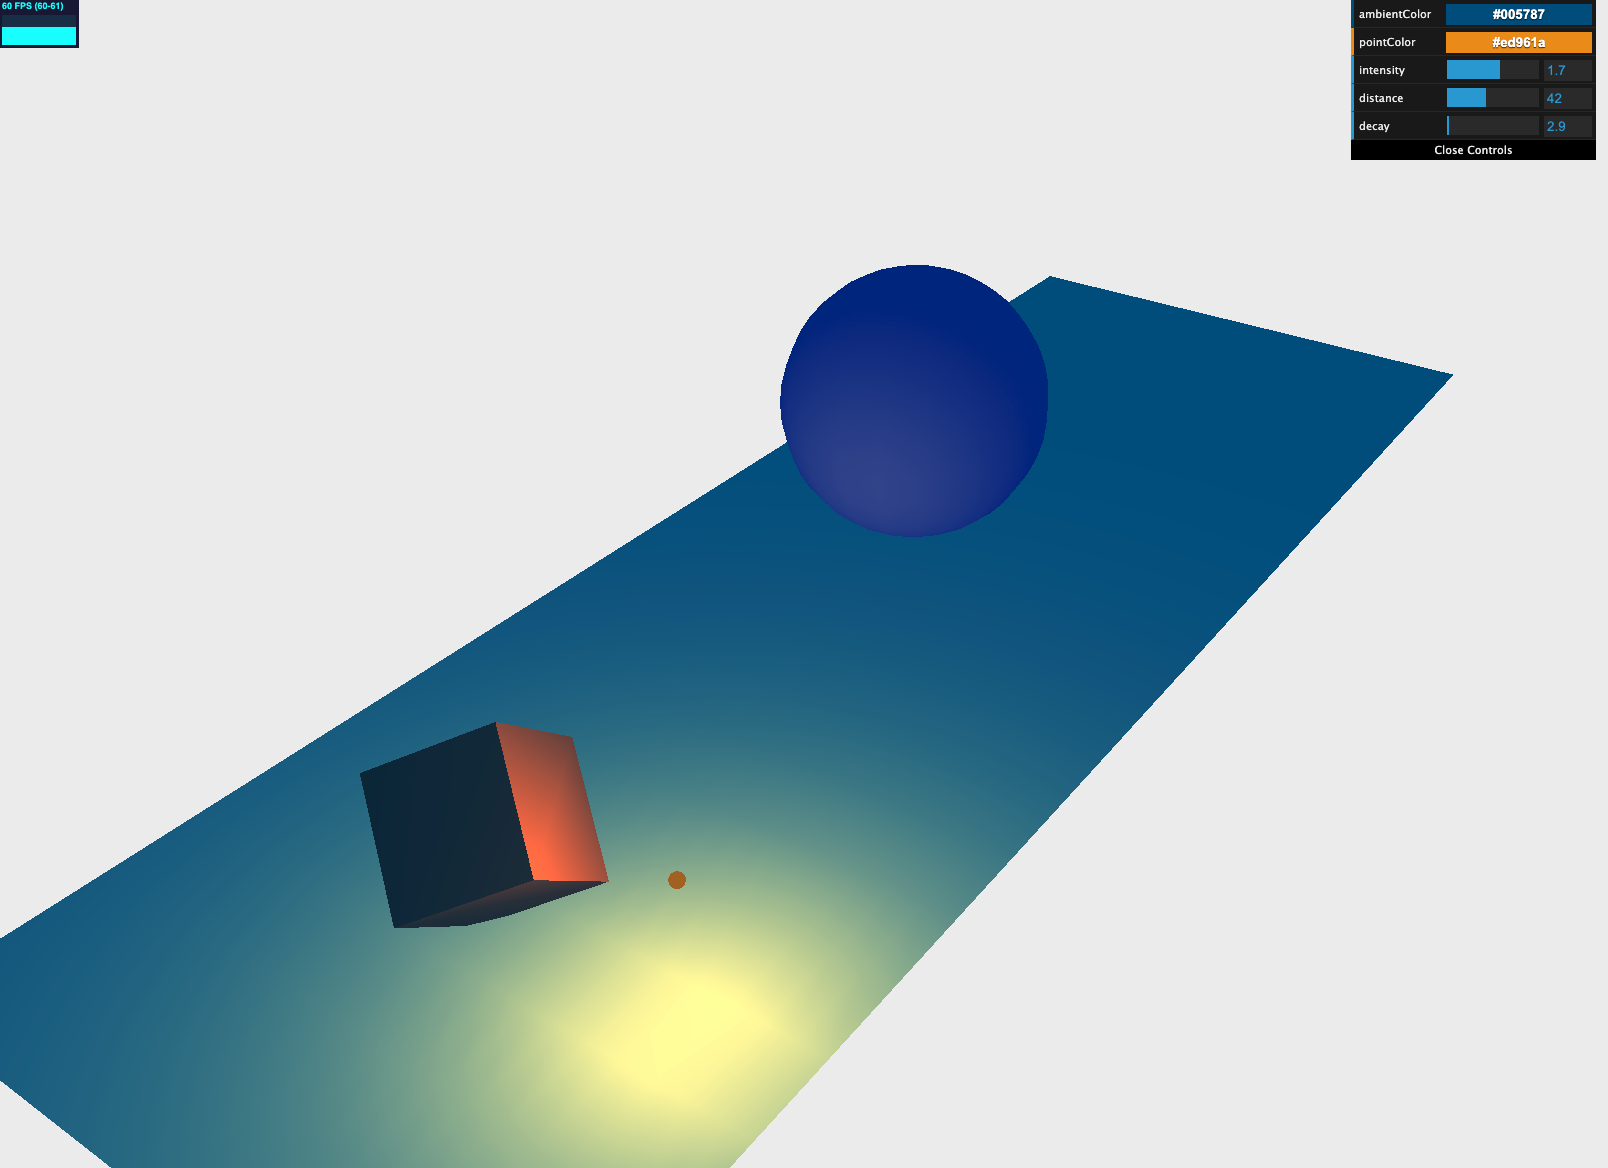
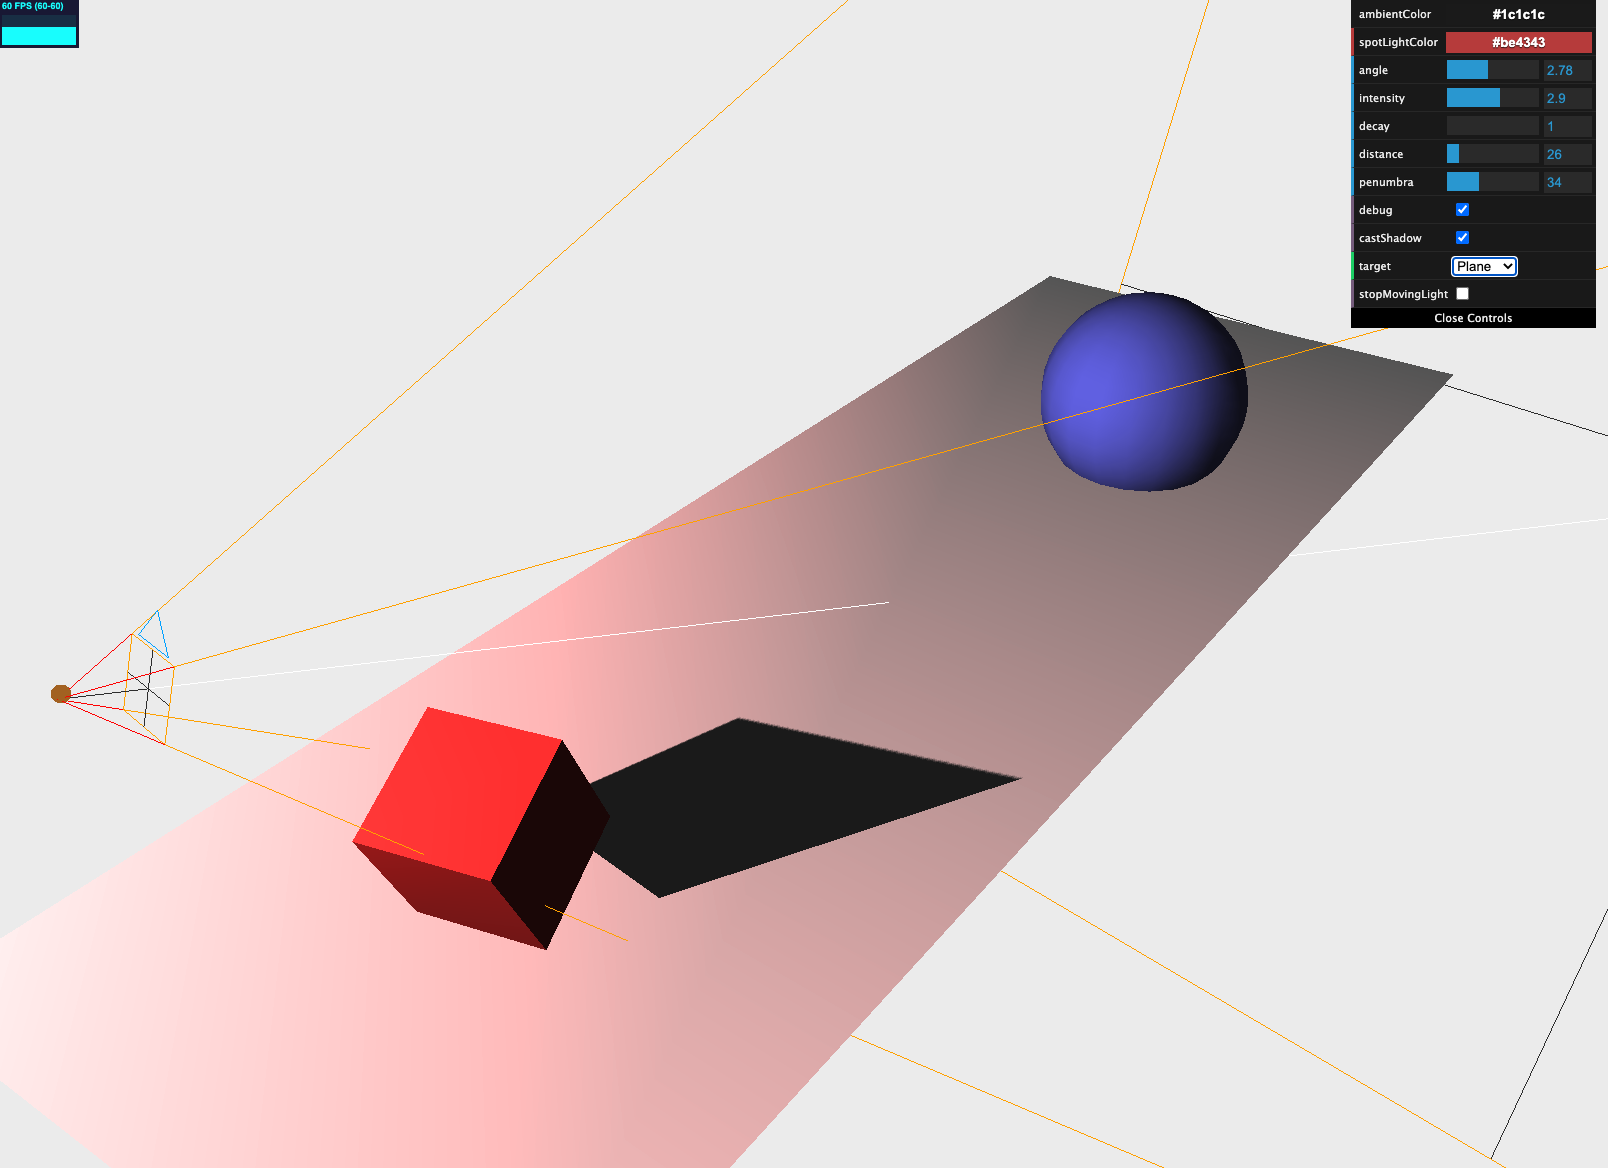
3-2-3 complete

diff --git a/Learning Three.js, 2nd Edition/chapter-03/3-2-3.spot-light/src/index.js b/Learning Three.js, 2nd Edition/chapter-03/3-2-3.spot-light/src/index.js
@@ -22,27 +22,11 @@ const renderer = new THREE.WebGLRenderer();
 renderer.setClearColor(new THREE.Color(0xeeeeee));
 renderer.setSize(window.innerWidth, window.innerHeight);
 renderer.shadowMap.enabled = true;
+renderer.shadowMap.type = THREE.PCFShadowMap;
 document.getElementById("WebGL-output").appendChild(renderer.domElement);
 
-// ambient light
-let ambiColor = "#0c0c0c";
-const ambientLight = new THREE.AmbientLight(ambiColor);
-scene.add(ambientLight);
-
-// spot light
-// const spotLight = new THREE.SpotLight(0xffffff);
-// spotLight.position.set(-40, 60, -10);
-// spotLight.castShadow = true;
-// scene.add(spotLight);
-
-// point light
-let pointColor = "#ccffcc";
-const pointLight = new THREE.PointLight(pointColor);
-pointLight.distance = 100;
-scene.add(pointLight);
-
 // 床面
-const planeGeometry = new THREE.PlaneGeometry(60, 20, 20, 20);
+const planeGeometry = new THREE.PlaneGeometry(60, 20, 1, 1);
 const planeMaterial = new THREE.MeshLambertMaterial({ color: 0xffffff });
 const plane = new THREE.Mesh(planeGeometry, planeMaterial);
 plane.receiveShadow = true;
@@ -54,7 +38,7 @@ scene.add(plane);
 
 // Cube
 const cubeGeometry = new THREE.BoxGeometry(4, 4, 4);
-const cubeMatelial = new THREE.MeshLambertMaterial({ color: 0xff7777 });
+const cubeMatelial = new THREE.MeshLambertMaterial({ color: 0xff3333 });
 const cube = new THREE.Mesh(cubeGeometry, cubeMatelial);
 cube.castShadow = true;
 cube.position.x = -4;
@@ -72,45 +56,111 @@ sphere.position.y = 0;
 sphere.position.z = 2;
 scene.add(sphere);
 
+// ambient light
+let ambiColor = "#1c1c1c";
+const ambientLight = new THREE.AmbientLight(ambiColor);
+scene.add(ambientLight);
+
+// spot light0
+const spotLight0 = new THREE.SpotLight(0xcccccc);
+spotLight0.position.set(-40, 30, -10);
+spotLight0.lookAt(plane.position);
+scene.add(spotLight0);
+
+// spot light
+let spotLightColor = "#ffffff";
+const spotLight = new THREE.SpotLight(spotLightColor);
+spotLight.position.set(-40, 60, -10);
+spotLight.castShadow = true;
+spotLight.shadow.camera.near = 2;
+spotLight.shadow.camera.far = 200;
+spotLight.shadow.camera.pov = 30;
+spotLight.target = plane;
+spotLight.decay = 1;
+spotLight.distance = 0;
+spotLight.angle = 0.4;
+scene.add(spotLight);
+
 // Sphere Light
 const sphereLightGeometry = new THREE.SphereGeometry(0.2);
 const sphereLightMaterial = new THREE.MeshBasicMaterial({ color: 0xac6c25 });
 const sphereLight = new THREE.Mesh(sphereLightGeometry, sphereLightMaterial);
 sphereLight.castShadow = true;
-sphereLight.position.set(new THREE.Vector3(3, 0, 3));
+sphereLight.position.set(new THREE.Vector3(3, 20, 3));
 scene.add(sphereLight);
+
+// Camera Helper
+const cameraHelper = new THREE.CameraHelper(spotLight.shadow.camera);
+cameraHelper.visible = false;
+scene.add(cameraHelper);
 
 // GUI
 const controls = new (function () {
   this.rotationSpeed = 0.02;
   this.bouncingSpeed = 0.03;
   this.ambientColor = ambiColor;
-  this.pointColor = pointColor;
+  this.spotLightColor = spotLightColor;
   this.intensity = 1;
-  this.distance = 100;
   this.decay = 1;
+  this.distance = 0;
+  this.penumbra = 30;
+  this.angle = 0.1;
+  this.debug = false;
+  this.castShadow = true;
+  this.target = "Plane";
+  this.stopMovingLight = false;
 })();
 
 const gui = new dat.GUI();
 gui.addColor(controls, "ambientColor").onChange(function (e) {
   ambientLight.color = new THREE.Color(e);
 });
-gui.addColor(controls, "pointColor").onChange(function (e) {
-  pointLight.color = new THREE.Color(e);
+gui.addColor(controls, "spotLightColor").onChange(function (e) {
+  spotLight.color = new THREE.Color(e);
 });
-gui.add(controls, "intensity", 0, 3).onChange(function (e) {
-  pointLight.intensity = e;
+gui.add(controls, "angle", 0, Math.PI * 2).onChange(function (e) {
+  spotLight.angle = e;
 });
-gui.add(controls, "distance", 0, 100).onChange(function (e) {
-  pointLight.distance = e;
+gui.add(controls, "intensity", 0, 5).onChange(function (e) {
+  spotLight.intensity = e;
 });
 gui.add(controls, "decay", 1, 100).onChange(function (e) {
-  pointLight.decay = e;
+  spotLight.decay = e;
+});
+gui.add(controls, "distance", 0, 200).onChange(function (e) {
+  spotLight.distance = e;
+});
+gui.add(controls, "penumbra", 0, 100).onChange(function (e) {
+  spotLight.penumbra = e;
+});
+gui.add(controls, "debug").onChange(function (e) {
+  cameraHelper.visible = e;
+});
+gui.add(controls, "castShadow").onChange(function (e) {
+  spotLight.castShadow = e;
+});
+gui.add(controls, "target", ["Plane", "Sphere", "Cube"]).onChange(function (e) {
+  console.log(e);
+  switch (e) {
+    case "Plane":
+      spotLight.target = plane;
+      break;
+    case "Sphere":
+      spotLight.target = sphere;
+      break;
+    case "Cube":
+      spotLight.target = cube;
+      break;
+  }
+});
+gui.add(controls, "stopMovingLight").onChange(function (e) {
+  stopMovingLight = e;
 });
 
 // レンダリング
 renderScene();
 
+let stopMovingLight = false;
 let step = 0;
 let invert = 1;
 let phase = 0;
@@ -132,22 +182,24 @@ function renderScene() {
   sphere.position.y = 2 + 10 * Math.abs(Math.sin(step));
 
   // light animation(simulation)
-  if (phase > 2 * Math.PI) {
-    invert = invert * -1;
-    phase -= 2 * Math.PI;
-  } else {
-    phase += controls.rotationSpeed;
-  }
-  sphereLight.position.z = 7 * Math.sin(phase);
-  sphereLight.position.x = 14 * Math.cos(phase);
-  sphereLight.position.y = 5;
+  if (!stopMovingLight) {
+    if (phase > 2 * Math.PI) {
+      invert = invert * -1;
+      phase -= 2 * Math.PI;
+    } else {
+      phase += controls.rotationSpeed;
+    }
+    sphereLight.position.z = 7 * Math.sin(phase);
+    sphereLight.position.x = 14 * Math.cos(phase);
+    sphereLight.position.y = 10;
 
-  if (invert < 0) {
-    const pivot = 14;
-    sphereLight.position.x = invert * (sphereLight.position.x - pivot) + pivot;
-  }
+    if (invert < 0) {
+      const pivot = 14;
+      sphereLight.position.x = invert * (sphereLight.position.x - pivot) + pivot;
+    }
 
-  pointLight.position.copy(sphereLight.position);
+    spotLight.position.copy(sphereLight.position);
+  }
 
   // requestAnimationFrameを利用してレンダリング（レンダリングタイミングをブラウザに任せる）
   requestAnimationFrame(renderScene);
